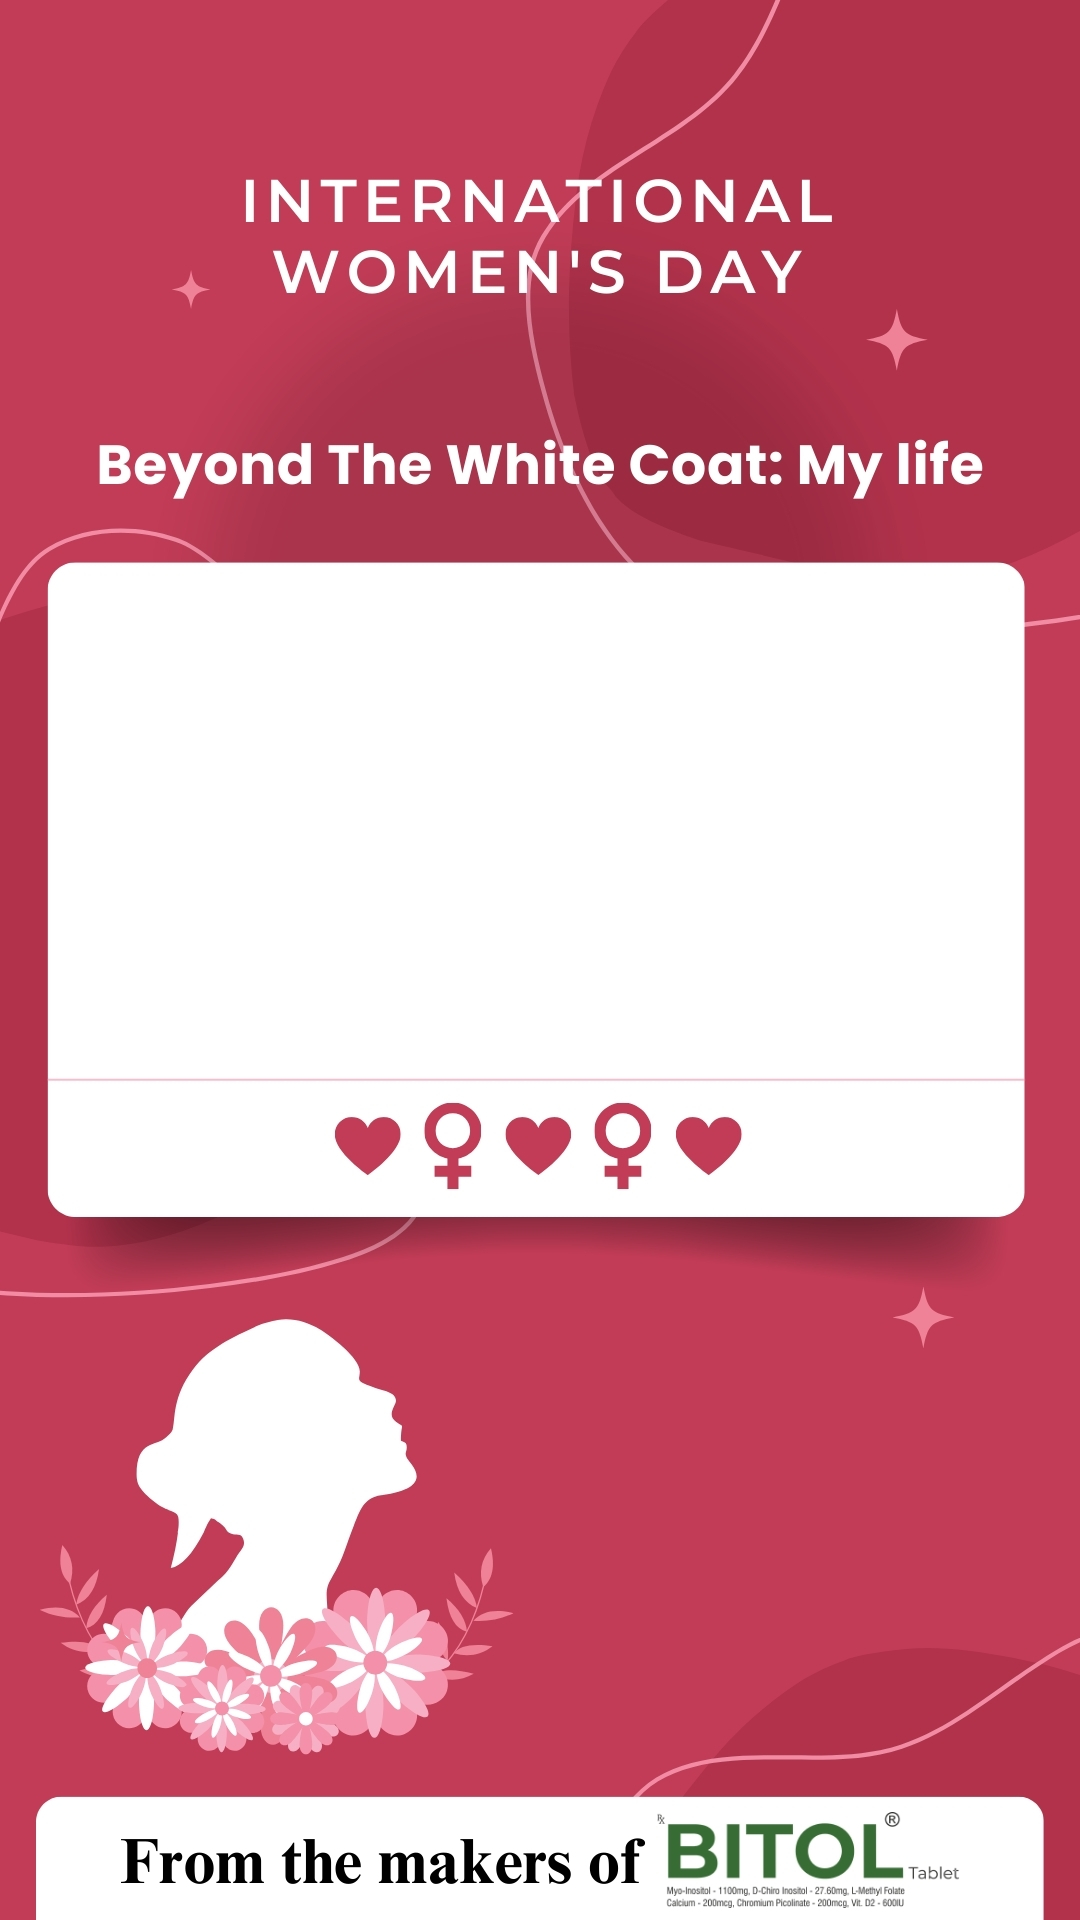
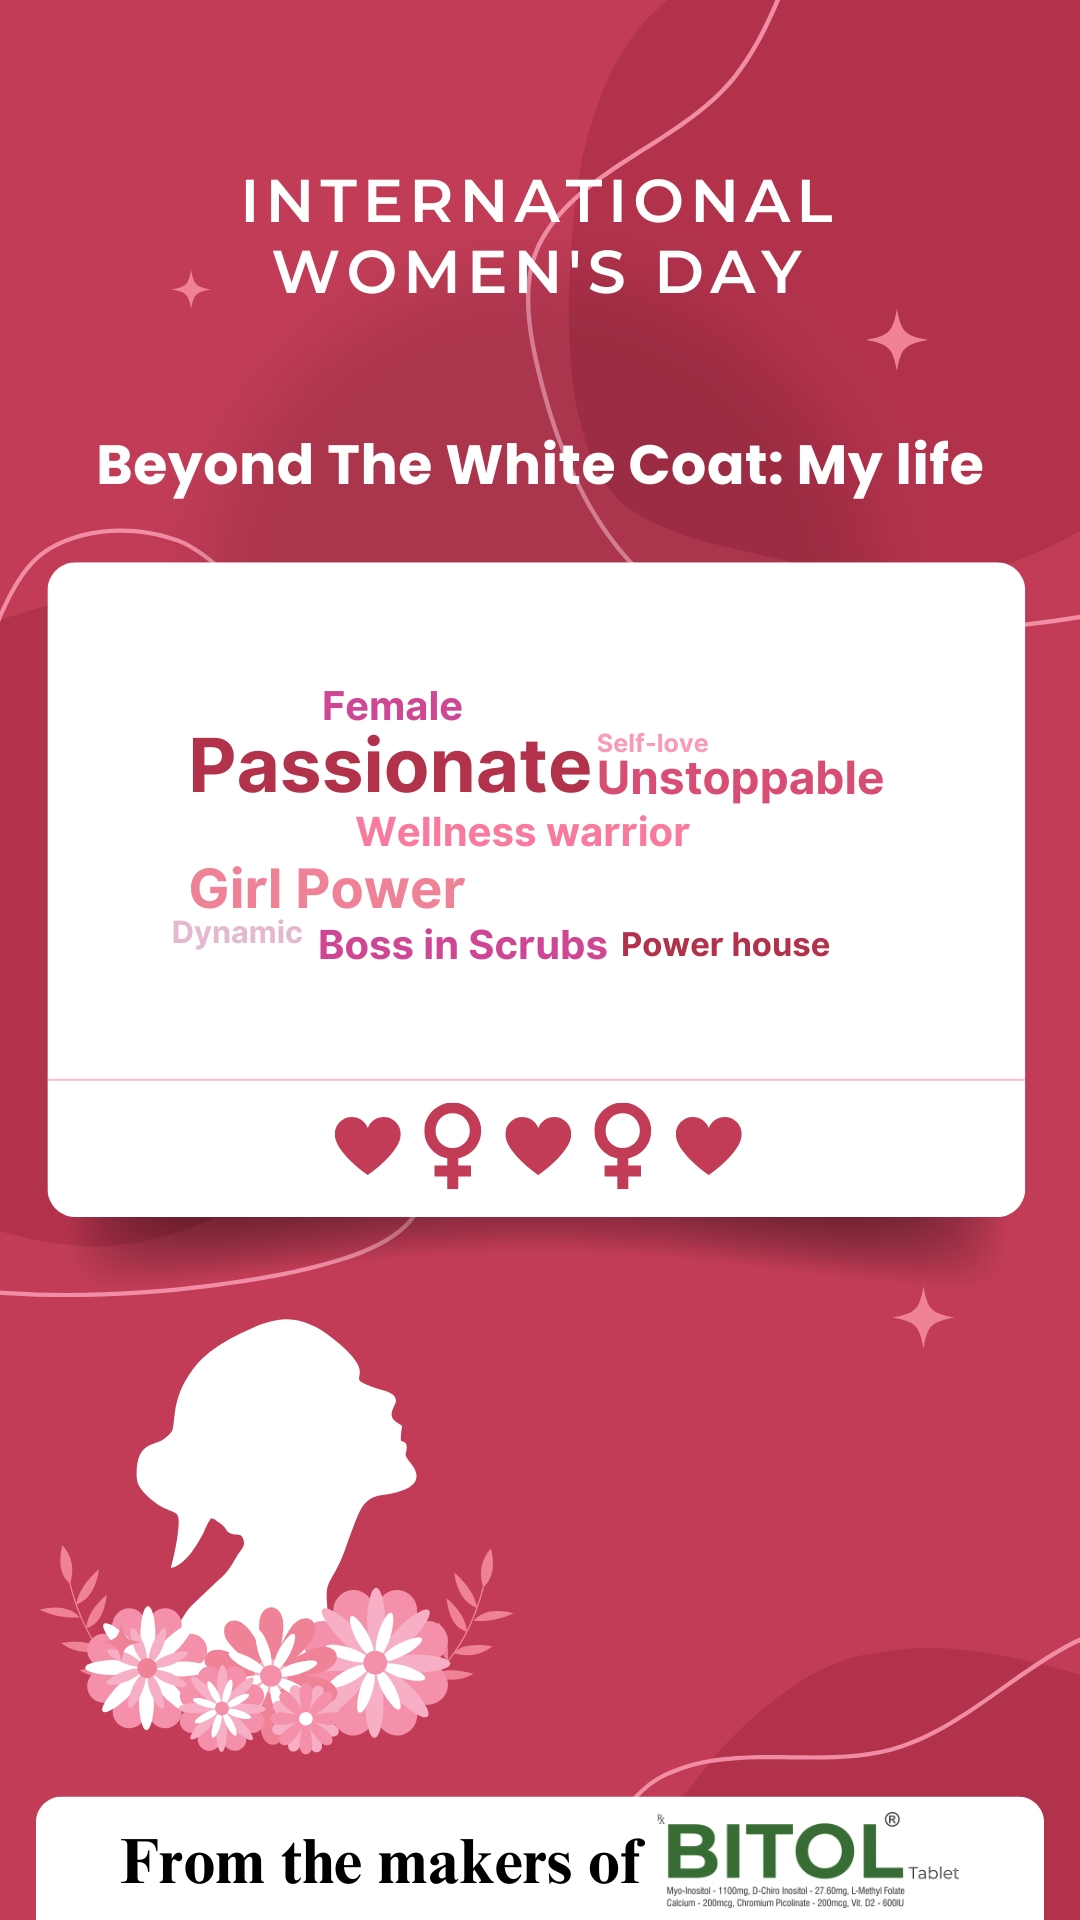
position reallocate

Changed region(s): [[0.1528, 0.3438, 0.825, 0.5]]

diff --git a/app/card/page.tsx b/app/card/page.tsx
@@ -4,7 +4,7 @@ import { useState, useEffect, useRef } from "react"
 import { useRouter } from "next/navigation"
 import Image from "next/image"
 import { Button } from "@/components/ui/button"
-import { Download, Share2, Home } from "lucide-react"
+import { Download, Share2, Home, Bold } from "lucide-react"
 import html2canvas from "html2canvas"
 import 'html2canvas-objectfit-fix';
 
@@ -140,12 +140,12 @@ export default function CardPage() {
 
   // Font families for different answers
   const fontFamilies = [
-    'Poppins',
-    'Poppins',
-    'Poppins',
-    'Poppins',
-    'Poppins',
-    'Poppins',
+    'Inter',
+    'Inter',
+    'Inter',
+    'Inter',
+    'Inter',
+    'Inter',
   ]
 
   // Add this function to generate random size class
@@ -230,66 +230,7 @@ export default function CardPage() {
 
               {/* White Card with Answers - organized layout */}
               <div className="absolute inset-0 flex items-start justify-center">
-                <div className="mt-[10.5rem] sm:mt-48 relative w-[79%] h-[25%]">
-                  {/* Pre-fixed words */}
-                  <div 
-                    className="absolute transform text-pink-500 hover:scale-105 cursor-default text-center tracking-wide hover:z-10"
-                    style={{
-                      top: '10%',
-                      left: '25%',
-                      transform: 'translate(-50%, -50%) rotate(0deg)',
-                      fontFamily: 'Poppins',
-                      fontSize: '18px',
-                      letterSpacing: '0.03em',
-                      textShadow: '1px 1px 1px rgba(0,0,0,0.05)'
-                    }}
-                  >
-                    Girl Power
-                  </div>
-                  <div 
-                    className="absolute transform text-red-600 hover:scale-105 cursor-default text-center tracking-wide hover:z-10"
-                    style={{
-                      top: '32%',
-                      left: '75%',
-                      transform: 'translate(-50%, -50%) rotate(0deg)',
-                      fontFamily: 'Poppins',
-                      fontSize: '20px',
-                      letterSpacing: '0.03em',
-                      textShadow: '1px 1px 1px rgba(0,0,0,0.05)'
-                    }}
-                  >
-                    Graceful
-                  </div>
-                  <div 
-                    className="absolute transform text-pink-800 hover:scale-105 cursor-default text-center tracking-wide hover:z-10"
-                    style={{
-                      top: '50%',
-                      left: '30%',
-                      transform: 'translate(-50%, -50%) rotate(0deg)',
-                      fontFamily: 'Poppins',
-                      fontSize: '19px',
-                      letterSpacing: '0.03em',
-                      textShadow: '1px 1px 1px rgba(0,0,0,0.05)'
-                    }}
-                  >
-                    Unstoppable
-                  </div>
-                  <div 
-                    className="absolute transform text-red-700 hover:scale-105 cursor-default text-center tracking-wide hover:z-10"
-                    style={{
-                      top: '75%',
-                      left: '80%',
-                      transform: 'translate(-50%, -50%) rotate(0deg)',
-                      fontFamily: 'Poppins',
-                      fontSize: '18px',
-                      letterSpacing: '0.03em',
-                      textShadow: '1px 1px 1px rgba(0,0,0,0.05)'
-                    }}
-                  >
-                    Fearless
-                  </div>
-
-                  {/* Original answers */}
+                <div className="mt-44 sm:mt-[13rem] relative w-[79%] h-[25%]">
                   {Object.entries(answers).map(([key, answer]) => {
                     const index = parseInt(key) - 1
                     if (key !== "6") {
@@ -298,23 +239,23 @@ export default function CardPage() {
                       switch(index) {
                         case 0:
                           topPosition = 10;
-                          leftPosition = 75;
+                          leftPosition = 20;
                           break;
                         case 1:
-                          topPosition = 32;
-                          leftPosition = 25;
+                          topPosition = 20;
+                          leftPosition = 65;
                           break;
                         case 2:
-                          topPosition = 63;
+                          topPosition = 62;
                           leftPosition = 55;
                           break;
                         case 3:
-                          topPosition = 75;
-                          leftPosition = 25;
+                          topPosition = 50;
+                          leftPosition = 80;
                           break;
                         default:
                           topPosition = 50;
-                          leftPosition = 80;
+                          leftPosition = 11;
                       }
                       
                       return (
@@ -330,11 +271,12 @@ export default function CardPage() {
                             left: `${leftPosition}%`,
                             transform: `translate(-50%, -50%) rotate(0deg)`,
                             fontFamily: fontFamilies[index % fontFamilies.length],
-                            fontSize: `${18 + (index % 3)}px`,
+                            fontSize: `${14 + (index % 3)}px`,
                             letterSpacing: '0.03em',
                             textShadow: '1px 1px 1px rgba(0,0,0,0.05)',
                             filter: 'drop-shadow(0 1px 1px rgba(0,0,0,0.05))',
-                            lineHeight: '1.6'
+                            lineHeight: '1.6',
+                            fontWeight:600
                           }}
                         >
                           {answer}
@@ -346,7 +288,7 @@ export default function CardPage() {
                   {/* Last answer (key 6) with special styling */}
                   {answers["6"] && (
                     <div 
-                      className="absolute top-[87%] left-1/2 transform -translate-x-1/2 -translate-y-1/2
+                      className="absolute top-[88%] left-1/2 w-full transform -translate-x-1/2 -translate-y-1/2
                         text-lg sm:text-xl md:text-2xl text-pink-600 font-bold text-center
                         max-w-[100%] z-20 tracking-wide"
                       style={{
